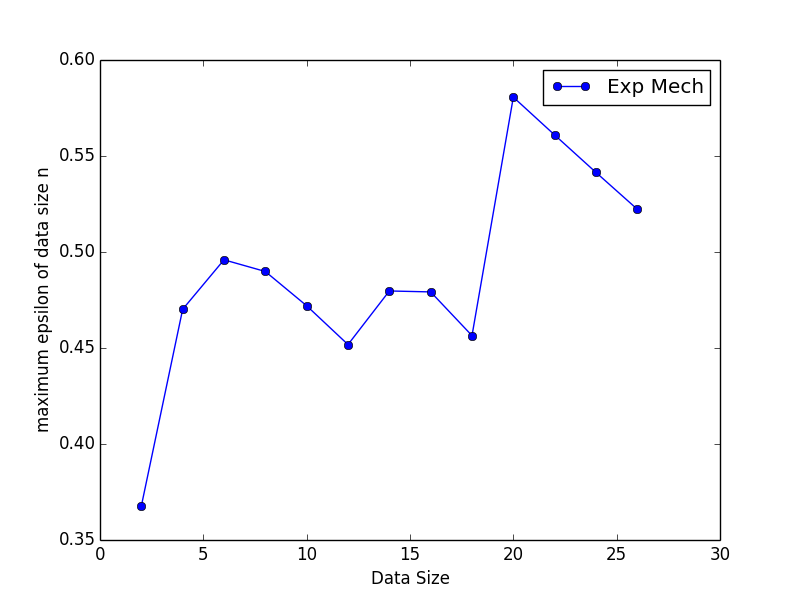
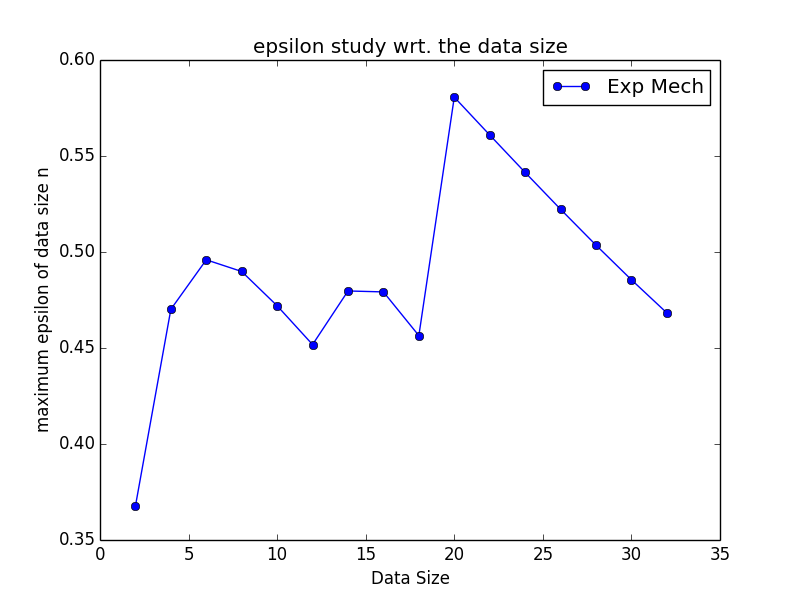
revise epsilon study

diff --git a/dp_bayesian_inference_model_with_dirichlet_prior_epsilon_study.py b/dp_bayesian_inference_model_with_dirichlet_prior_epsilon_study.py
@@ -662,6 +662,8 @@ def global_epsilon_study(sample_sizes,epsilon,delta,prior):
 		epsilons.append(epsilon_of_n)
 
 	plt.figure()
+	plt.title("epsilon study wrt. the data size")
+
 	plt.plot(sample_sizes,epsilons, 'bo-', label=('Exp Mech'))
 	plt.xlabel("Data Size")
 	plt.ylabel("maximum epsilon of data size n")
@@ -797,9 +799,9 @@ if __name__ == "__main__":
 	x2 = [2,18]
 	observation = [5,5]
 	epsilons = numpy.arange(0.1, 8, 0.2)
-	sample_sizes = [2,4,6,8,10,12,14,16,18,20,22,24,26]
-	hellinger_vs_l1norm(Dir(observation))
-	# global_epsilon_study(sample_sizes,epsilon,delta,prior)
+	sample_sizes = [2,4,6,8,10,12,14,16,18,20,22,24,26,28,30,32]
+	# hellinger_vs_l1norm(Dir(observation))
+	global_epsilon_study(sample_sizes,epsilon,delta,prior)
 
 	# accuracy_VS_epsilon(sample_size,epsilons,delta,prior,observation)
 	
